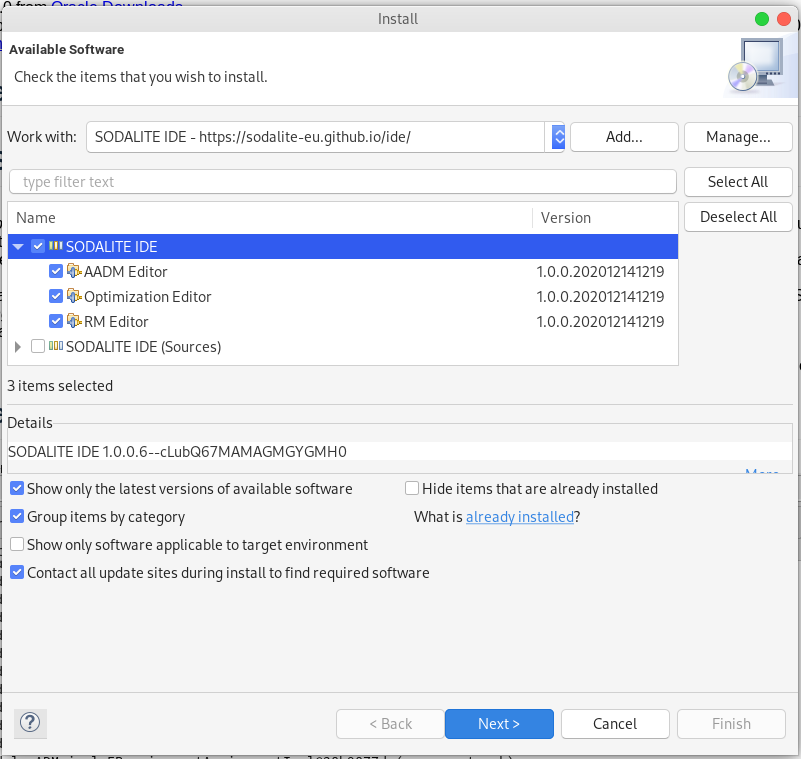
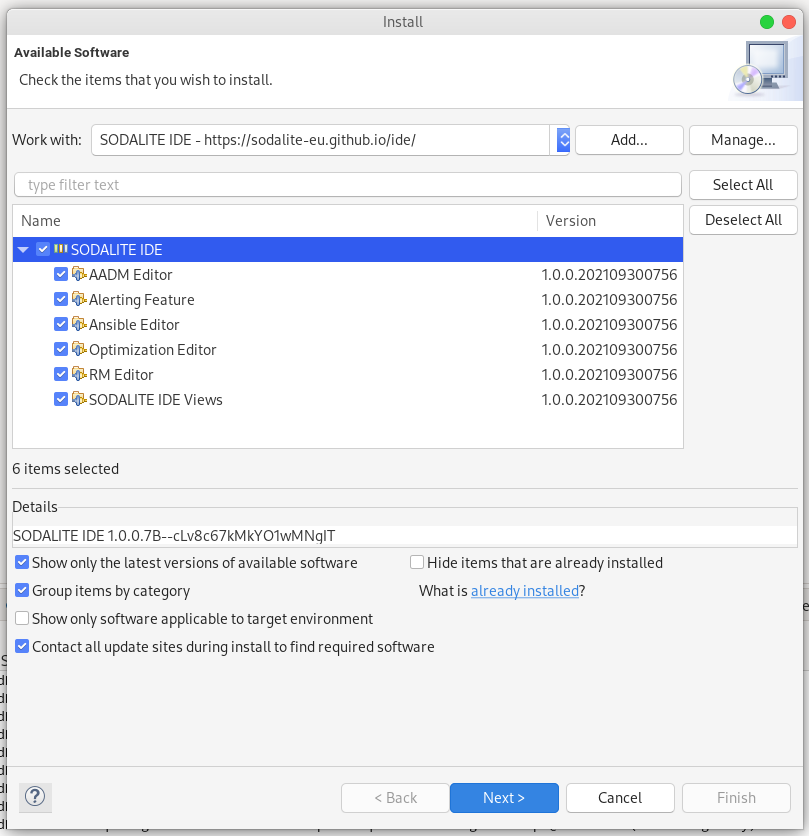
feat: documentation upgrade for Eclipse 09-2021

Changed region(s): [[0.0, 0.0, 1.0, 1.0]]

diff --git a/README.md b/README.md
@@ -10,11 +10,11 @@ This repository contains the Sodalite IDE (based on Eclipse).
 - scripts: scripts to publish the IDE during the dev-ops pipeline
 
 ## Requirements
-- Java SDK 11.0:
-Install the Java JDK 11.0 from [Oracle Downloads](https://www.oracle.com/java/technologies/javase-jdk11-downloads.html)
+- Java SDK 16.0:
+Install the Java JDK 16.0 from [Oracle Downloads](https://www.oracle.com/java/technologies/downloads/#java16)
 - Eclipse Modeling Tools:
 Install the Eclipse Modeling Tools instance from [Eclipse Downloads](https://www.eclipse.org/downloads/)
-Note: SODALITE IDE has been tested in the version 2020-06 R (4.16.0) of the Eclipse Modeling Tools, which can be downloaded from [here](https://www.eclipse.org/downloads/packages/release/2020-06/r/eclipse-modeling-tools)
+Note: SODALITE IDE has been tested in the version 2021-09 R (4.21.0) of the Eclipse Modeling Tools, which can be downloaded from [here](https://www.eclipse.org/downloads/packages/release/2021-09/r/eclipse-modeling-tools)
 
 ## IDE Installation from the Sodalite IDE update site
 ### Add Software sites for Sodalite IDE and dependencies
@@ -25,7 +25,7 @@ Then, click on *Add* button.
 
 2. Following the same procedure as before add the following external software repositories to your list of software sites:
 Name: Sirius-XText integration, Location: https://altran-mde.github.io/xtext-sirius-integration.io/p2/
-3. Make sure that in the *Install software* dialog window, in the *Work with* combo box, you also select the *SODALITE IDE* entry. In the below panel, mark the *SODALITE IDE* checkbox. Be sure the chekbox *Contact all updates sites during install to find required software* is selected. Click twice the *Next* button. Accept the license, and finish the dialog. When prompted, accept. Restart Eclipse once the SODALITE IDE has been installed.
+3. Make sure that in the *Install software* dialog window, in the *Work with* combo box, you select the *SODALITE IDE* entry. In the below panel, mark the *SODALITE IDE* checkbox. Be sure the chekbox *Contact all updates sites during install to find required software* is selected. Click twice the *Next* button. Accept the license, and finish the dialog. When prompted, accept. Restart Eclipse once the SODALITE IDE has been installed.
 
 ![Dialog to select the SODALITE features to install](images/Sodalite_Installation_Wizard.png)
 
